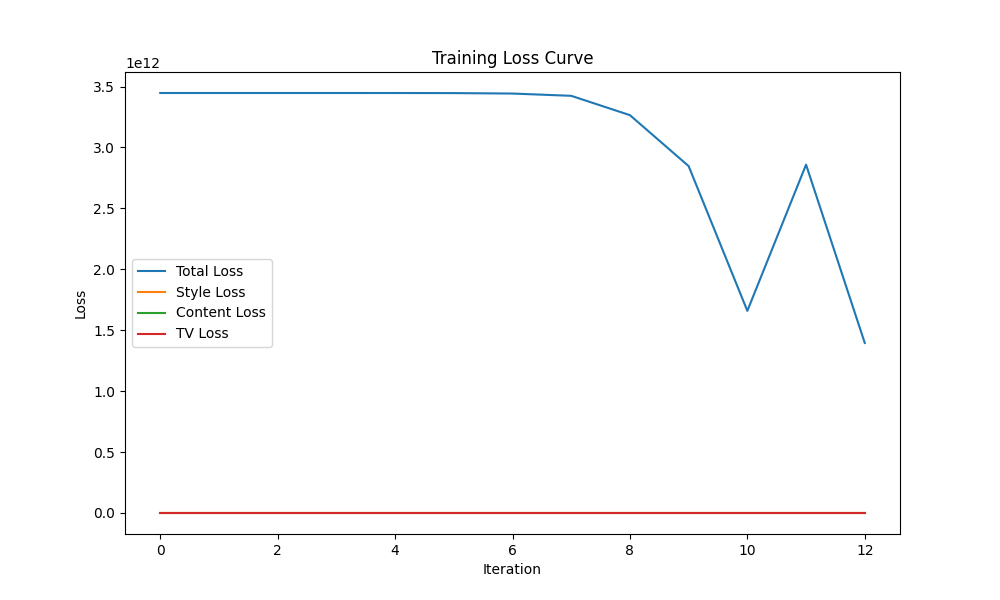
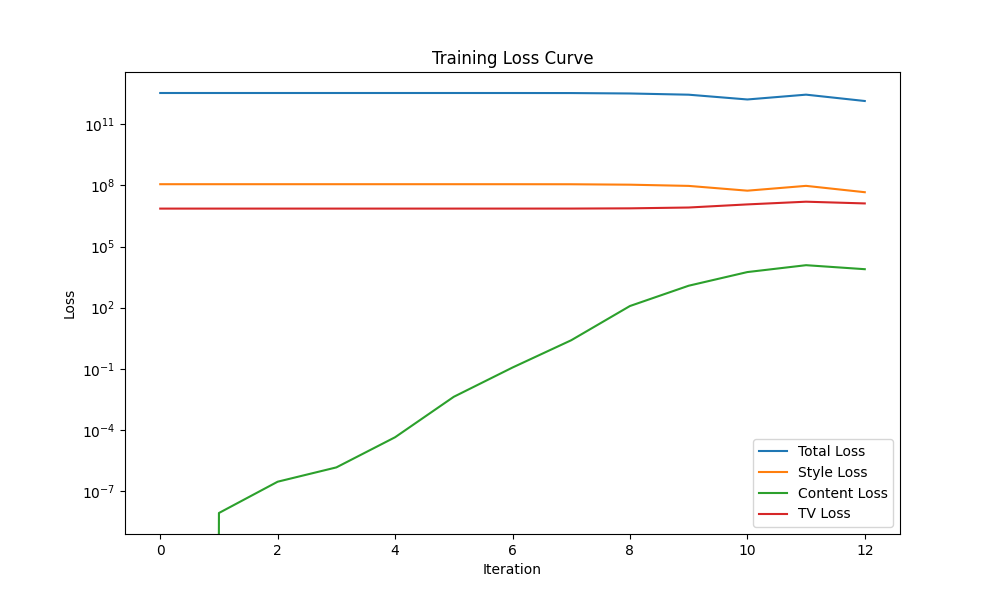
Resolved the plotting issue of style and content loss

diff --git a/ml_flow.py b/ml_flow.py
@@ -57,25 +57,15 @@ def run_neural_style_transfer(config):
 
         # Extract loss values from loss_history
         total_loss_values = [loss[0] for loss in loss_history]
-        style_loss_values = [loss[1] for loss in loss_history]
-        content_loss_values = [loss[2] for loss in loss_history]
+        style_loss_values = [loss[2] for loss in loss_history]  # Style loss is at index 2
+        content_loss_values = [loss[1] for loss in loss_history]  # Content loss is at index 1
         tv_loss_values = [loss[3] for loss in loss_history]
 
-        # Find the maximum value of style_loss and content_loss
-        max_style_loss = max(style_loss_values)
-        max_content_loss = max(content_loss_values)
-
-        # Normalize style_loss and content_loss values
-        normalized_style_loss = [loss / max_style_loss for loss in style_loss_values]
-        normalized_content_loss = [loss / max_content_loss for loss in content_loss_values]
-
-        content_loss_scaled = [loss * 1000 for loss in normalized_content_loss]  
-        style_loss_scaled = [loss * 1000 for loss in normalized_style_loss]  
-
+        # Plotting the loss curve
         plt.figure(figsize=(10, 6))  # Adjust figure size if needed
         plt.plot(total_loss_values, label='Total Loss')
-        plt.plot(style_loss_scaled, label='Style Loss')
-        plt.plot(content_loss_scaled, label='Content Loss')
+        plt.plot(style_loss_values, label='Style Loss')
+        plt.plot(content_loss_values, label='Content Loss')
         plt.plot(tv_loss_values, label='TV Loss')
 
         # Add labels and title to the plot
@@ -85,8 +75,10 @@ def run_neural_style_transfer(config):
         plt.legend()
 
         # Save and log the plot
+        plt.yscale('log')
         plt.savefig('loss_curve.png')
         mlflow.log_artifact('loss_curve.png')
+
 
 
 def parse_arguments():

diff --git a/NST.py b/NST.py
@@ -161,7 +161,7 @@ def neural_style_transfer(config):
     target_content_representation = content_img_set_of_feature_maps[content_feature_maps_index_name[0]].squeeze(axis=0)
     target_style_representation = [gram_matrix(x) for cnt, x in enumerate(style_img_set_of_feature_maps) if cnt in style_feature_maps_indices_names[0]]
     target_representations = [target_content_representation, target_style_representation]
-    num_of_iterations = 20
+    num_of_iterations = 10
     
     optimizer = LBFGS((optimizing_img,), max_iter=num_of_iterations, line_search_fn='strong_wolfe')
     cnt = 0
